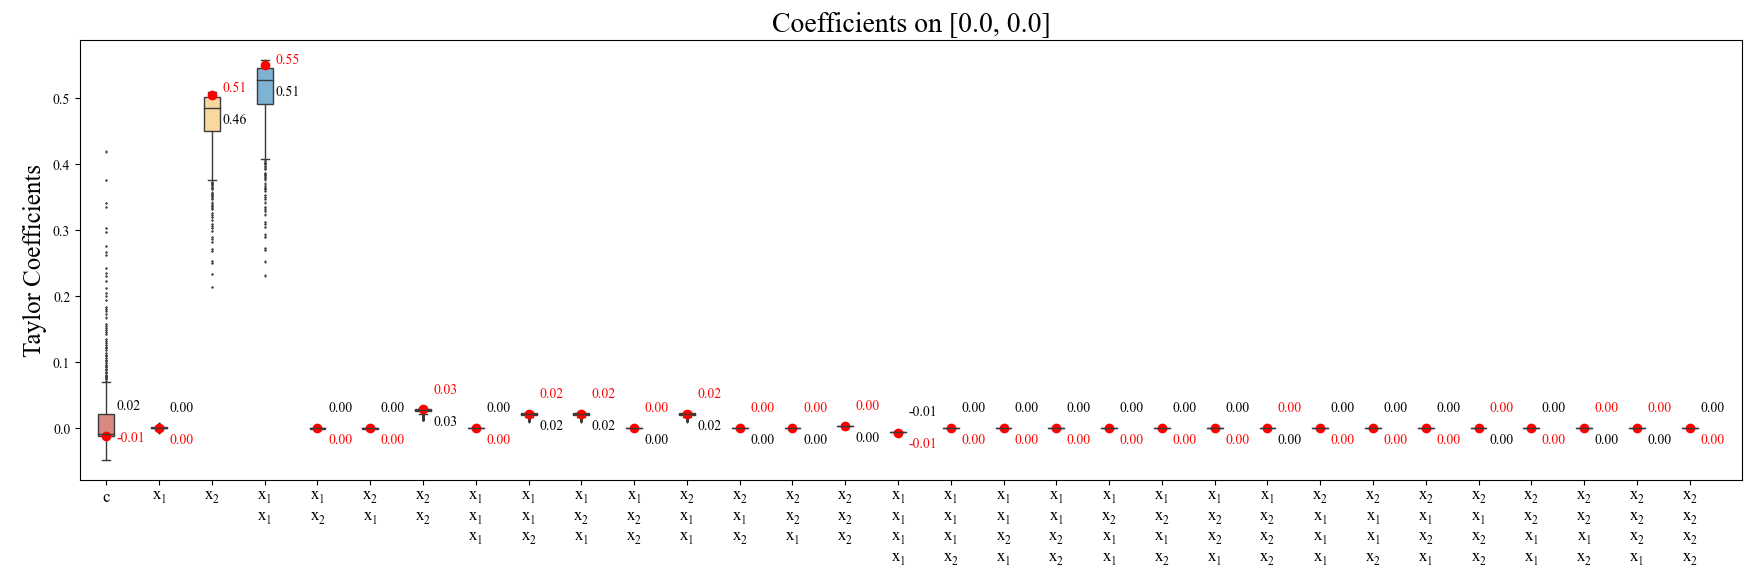
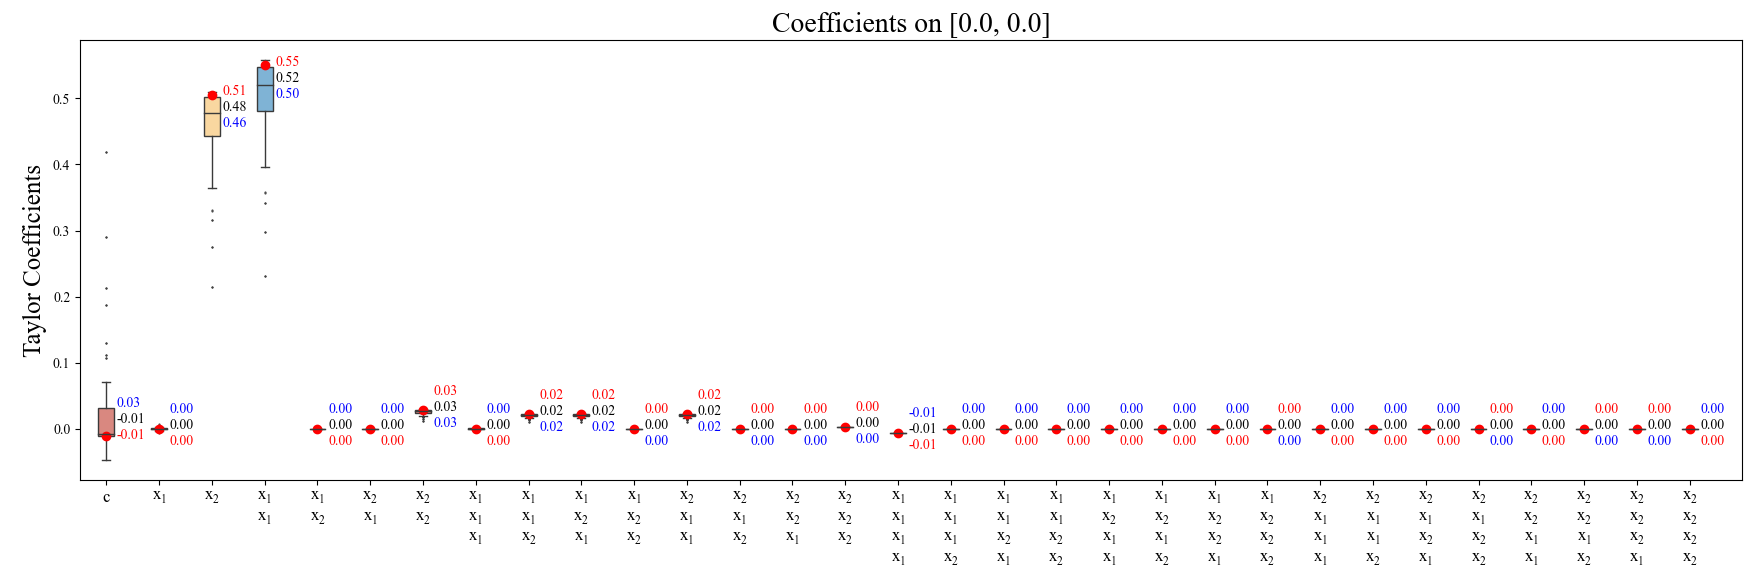
global

diff --git a/global.py b/global.py
@@ -62,8 +62,12 @@ def plot(coefs, ref_coef, title, xlabels, order, global_dir):
         y = (coefs[:,idx].mean()+ref_coef[idx])/2
         y1 = (vmax-vmin)*0.04+y if coefs[:,idx].mean()>ref_coef[idx] else -(vmax-vmin)*0.04+y
         y2 = -(vmax-vmin)*0.04+y if coefs[:,idx].mean()>ref_coef[idx] else (vmax-vmin)*0.04+y
-        plt.text(50+100*idx+20, y1, '{:.2f}'.format(deal_zero(coefs[:,idx].mean())))
+        plt.text(50+100*idx+20, y1, '{:.2f}'.format(deal_zero(coefs[:,idx].mean())), color='blue')
         plt.text(50+100*idx+20, y2, '{:.2f}'.format(deal_zero(ref_coef[idx])), color='red')
+        if xlabels[idx]=='c':
+            plt.text(50+100*idx+20, y, '{:.2f}'.format(deal_zero(ref_coef[idx])), color='black')
+        else:
+            plt.text(50+100*idx+20, y, '{:.2f}'.format(deal_zero((coefs[:,idx].mean()+ref_coef[idx])/2)), color='black')
     ax = plt.gca()
     ax.set_xticklabels(xlabels, fontsize=12) 
     plt.xlim(0,100*idx+150)
@@ -75,10 +79,8 @@ def plot(coefs, ref_coef, title, xlabels, order, global_dir):
         plt.show()
     elif 'Top' in title:
         plt.savefig(os.path.join(global_dir,'global_top.png'))
-        plt.savefig(os.path.join(global_dir,'global_top.pdf'))
     else:
         plt.savefig(os.path.join(global_dir,'global.png'))
-        plt.savefig(os.path.join(global_dir,'global.pdf'))
 
 def main(net_path, order, point, num, coord_range, top, save):
     net = torch.load(net_path).eval()

diff --git a/README.md b/README.md
@@ -27,23 +27,19 @@
 
 For the high-order Taylor expansion of neural networks, we provide two implementations, HOPE and Autograd. Users can conveniently compute high-order derivatives of neural networks and obtain Taylor series approximations for the network by calling **hope.py** or **auto.py**, while HOPE has significant advantages in terms of accuracy, speed, and memory cost compared with Autograd.
 
-#### (a) Expand a 1-D neural network with HOPE and Autograd
+#### (a) Expand a 1-D neural network with HOPE
 
     python demo/expansion/code/net1d.py
     python hope.py -d demo/expansion/outputs/1D_MLP_Sine/net.pt -o 10 -p 0
     python plot.py -d demo/expansion/outputs/1D_MLP_Sine/npy/HOPE_[[0.0]]_10.npy -r 4.5
-    python auto.py -d demo/expansion/outputs/1D_MLP_Sine/net.pt -o 10 -p 0
-    python plot.py -d demo/expansion/outputs/1D_MLP_Sine/npy/Autograd_[[0.0]]_10.npy -r 4.5
 
 The results are saved in **demo/expansion/outputs/1D_MLP_Sine/figs/**.
 
-#### (b) Expand a 2-D neural network with HOPE and Autograd
+#### (b) Expand a 2-D neural network with HOPE
 
     python demo/expansion/code/net2d.py
     python hope.py -d demo/expansion/outputs/2D_Conv_AvePool/net.pt -o 8 -p 0,0
     python plot.py -d demo/expansion/outputs/2D_Conv_AvePool/npy/HOPE_[[0.0,0.0]]_8.npy -r 2
-    python auto.py -d demo/expansion/outputs/2D_Conv_AvePool/net.pt -o 8 -p 0,0
-    python plot.py -d demo/expansion/outputs/2D_Conv_AvePool/npy/Autograd_[[0.0,0.0]]_8.npy -r 2
     
 
 The results are saved in **demo/expansion/outputs/2D_Conv_AvePool/figs/**.
@@ -54,7 +50,7 @@ The results are saved in **demo/expansion/outputs/2D_Conv_AvePool/figs/**.
 
     python demo/discovery/code/train.py
 
-Expand the network on reference inputs (0.0, 0.0), (0.5, 0.5), and (-0.5, -0.5)
+<!-- Expand the network on reference inputs (0.0, 0.0), (0.5, 0.5), and (-0.5, -0.5)
 ```
 python hope.py -d demo/discovery/outputs/discovery_{time}/model/best.pt -o 2 -p 0,0 -s
 python hope.py -d demo/c_discovery/outputs/discovery_{time}/model/best.pt -o 2 -p 0.5,0.5 -s
@@ -73,7 +69,7 @@ y&=-0.13-0.51(x_1+0.5)+0.49(x_2+0.5)+0.50(x_1+0.5)^2
 &\approx 0.48 x_2+0.50 x_1^2
 \end{aligned}$$
 
-The aforementioned equations provide local explanations for this ''black-box'' neural network. When all these local explanations align and reach a consistent conclusion, a global explanation can be obtained.
+The aforementioned equations provide local explanations for this ''black-box'' neural network. When all these local explanations align and reach a consistent conclusion, a global explanation can be obtained. -->
 
 Expand the network on multiple reference inputs  and find a global explanation
 ```
@@ -83,7 +79,7 @@ python global.py -d demo/discovery/outputs/discovery_{time}/model/best.pt
 
 One can easily find the function expressed by the neural network from the top coefficients.
 
-#### (b) Represent $y=0.5+x_1+0.6x_2x_3-0.8x_2x_4-x_3x_5+x_1x_2x_3$ with implicit neural representation
+#### (b) Represent $y=0.5+x_1+0.6x_2x_3-0.8x_2x_4+x_1x_2x_3-zx_3$ with implicit neural representation
 
 ```
 python demo/discovery/code/train1.py
@@ -92,12 +88,12 @@ python demo/discovery/code/train1.py
 Get the Taylor coefficients
 
 ```
-python global.py -d  demo/discovery/outputs/discovery1_3_{time}/model/best.pt -p 0,0,0,0,0 -o 3 -r 0.5 -n 3 -t 15
+python global.py -d  demo/discovery/outputs/discovery1_3_{time}/model/best.pt -p 0,0,0,0,0 -o 3 -r 0.5 -n 3 -t 14
 ```
 
 <img src="docs/fig4.png" width="70%"/>
 
-The Taylor polynomial on reference point [0, 0, 0, 0, 0] is $y=0.5+1.01x_1+0.62x_2x_3-0.84x_2x_4-1.04x_3x_5+1.08x_1x_2x_3+0.22x_1^2$.
+The local Taylor coefficients on reference point are marked in red, the average values of coefficients obtained from multiple reference points are marked in blue, and the coefficients that combine local and global properties are marked in black. The final Taylor polynomial on reference point [0, 0, 0, 0, 0] is $y=0.56+0.94x_1+0.60x_2x_3-0.78x_2x_4+1.02x_1x_2x_3-0.96x_3$.
 
 ### 3. Feature selection
 
